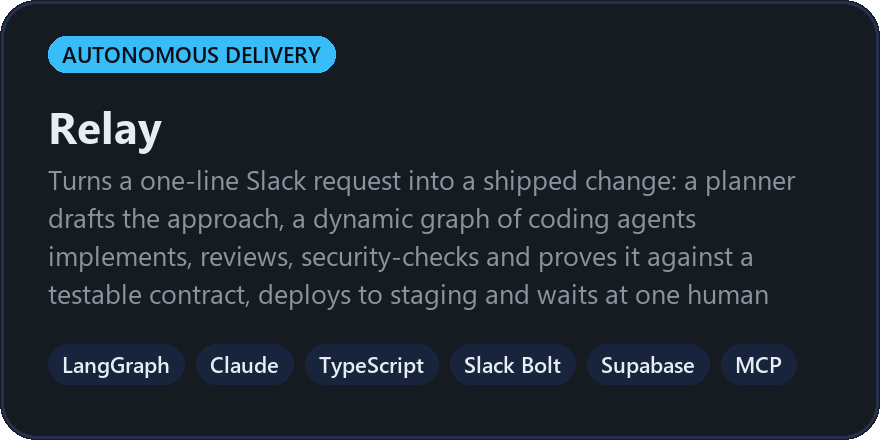
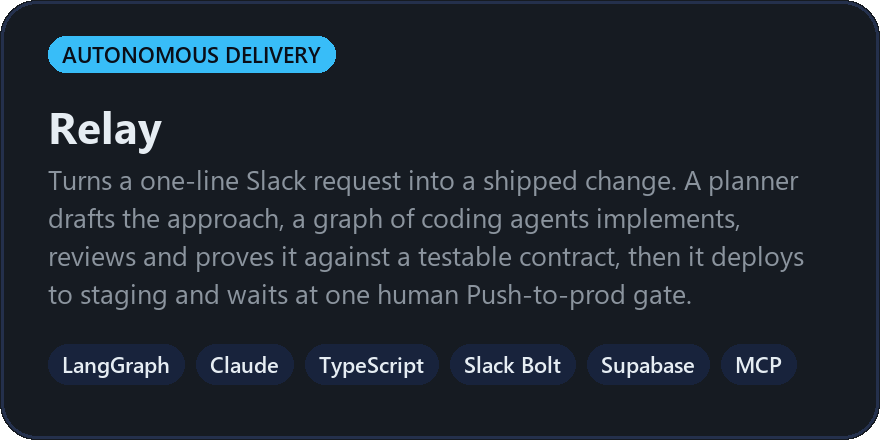
README: new layout without sidebar duplicates, new project cards

diff --git a/README.md b/README.md
@@ -1,15 +1,8 @@
-<img width="100%" alt="Haseeb Tariq, AI & Automation Engineer" src="assets-flat/hero.png">
-
-<p align="center">
-  <img alt="What I build" src="https://readme-typing-svg.demolab.com?font=Segoe+UI&weight=600&size=24&duration=2600&pause=700&color=58A6FF&center=true&vCenter=true&width=820&height=50&lines=Autonomous+agents+that+run+in+production%2C+not+demos;Voice+and+chat+agents+that+book+real+appointments;Browser+bots+that+survive+anti-detection;n8n+pipelines+that+debug+and+fix+themselves;Full-stack+AI+platforms+used+by+real+teams+every+day">
-</p>
+<img width="100%" alt="I build AI systems that ship. Autonomous agents, automation pipelines and full-stack AI products running in production for real teams." src="img/hero.png">
 
 <p align="center">
   <a href="mailto:contactbyhaseeb@gmail.com"><img alt="Email" src="https://img.shields.io/badge/Email-contactbyhaseeb%40gmail.com-D14836?style=for-the-badge&logo=gmail&logoColor=white"></a>
-  <a href="https://www.linkedin.com/in/haseeb-tariq099"><img alt="LinkedIn" src="https://img.shields.io/badge/LinkedIn-haseeb--tariq099-0A66C2?style=for-the-badge&logo=linkedin&logoColor=white"></a>
   <a href="https://wa.me/923229909327"><img alt="WhatsApp" src="https://img.shields.io/badge/WhatsApp-%2B92%20322%209909327-25D366?style=for-the-badge&logo=whatsapp&logoColor=white"></a>
-  <a href="https://www.instagram.com/haseeb_tariq0/"><img alt="Instagram" src="https://img.shields.io/badge/Instagram-haseeb__tariq0-E4405F?style=for-the-badge&logo=instagram&logoColor=white"></a>
-  <a href="https://github.com/haseeb9933?tab=repositories"><img alt="Repositories" src="https://img.shields.io/badge/All%20repos-haseeb9933-181717?style=for-the-badge&logo=github&logoColor=white"></a>
 </p>
 
 <br>
@@ -17,26 +10,26 @@
 <h2 align="center">What I build</h2>
 
 <p align="center">
-  <img width="32%" alt="AI agents and LLM apps" src="assets-flat/svc-agents.png">
-  <img width="32%" alt="RAG assistants" src="assets-flat/svc-rag.png">
-  <img width="32%" alt="Voice and chat agents" src="assets-flat/svc-voice.png">
-  <img width="32%" alt="Browser automation and scraping" src="assets-flat/svc-browser.png">
-  <img width="32%" alt="Workflow automation" src="assets-flat/svc-workflows.png">
-  <img width="32%" alt="Full-stack AI products" src="assets-flat/svc-fullstack.png">
+  <img width="32%" alt="AI agents and LLM apps" src="img/svc-agents.png">
+  <img width="32%" alt="RAG assistants" src="img/svc-rag.png">
+  <img width="32%" alt="Voice and chat agents" src="img/svc-voice.png">
+  <img width="32%" alt="Browser automation and scraping" src="img/svc-browser.png">
+  <img width="32%" alt="Workflow automation" src="img/svc-workflows.png">
+  <img width="32%" alt="Full-stack AI products" src="img/svc-fullstack.png">
 </p>
 
 <br>
 
 <h2 align="center">Featured work</h2>
-<p align="center">Click a card to open the code.</p>
+<p align="center">Click a card to open the code or demo.</p>
 
 <p align="center">
-  <img width="49%" alt="Momentum" src="assets-flat/momentum.png">
-  <a href="https://github.com/haseeb9933/haseeb-portfolio/tree/main/Axon-Bridge"><img width="49%" alt="Axon Bridge" src="assets-flat/axon-bridge.png"></a>
-  <a href="https://github.com/haseeb9933/haseeb-portfolio/tree/main/Binance"><img width="49%" alt="Rubber Band trading bot" src="assets-flat/rubber-band.png"></a>
-  <a href="https://github.com/haseeb9933/haseeb-portfolio/tree/main/schmoozzer-hub"><img width="49%" alt="Ops Hub" src="assets-flat/ops-hub.png"></a>
-  <a href="https://github.com/haseeb9933/haseeb-portfolio/tree/main/NOVA"><img width="49%" alt="NOVA n8n copilot" src="assets-flat/nova.png"></a>
-  <a href="https://github.com/haseeb9933/haseeb-portfolio/tree/main/bidsquare"><img width="49%" alt="Bidsquare outreach bot" src="assets-flat/bidsquare.png"></a>
+  <img width="49%" alt="Momentum" src="img/momentum.png">
+  <a href="https://github.com/haseeb-tariq0/relay-demo"><img width="49%" alt="Relay, autonomous software delivery" src="img/relay.png"></a>
+  <a href="https://github.com/haseeb9933/haseeb-portfolio/tree/main/Axon-Bridge"><img width="49%" alt="Axon Bridge" src="img/axon-bridge.png"></a>
+  <a href="https://github.com/haseeb9933/haseeb-portfolio/tree/main/schmoozzer-hub"><img width="49%" alt="Ops Hub" src="img/ops-hub.png"></a>
+  <a href="https://github.com/haseeb9933/haseeb-portfolio/tree/main/NOVA"><img width="49%" alt="NOVA n8n copilot" src="img/nova.png"></a>
+  <a href="https://github.com/haseeb9933/haseeb-portfolio/tree/main/Binance"><img width="49%" alt="Rubber Band trading bot" src="img/rubber-band.png"></a>
 </p>
 
 <br>
@@ -44,15 +37,21 @@
 <h2 align="center">More work</h2>
 
 <p align="center">
-  <img width="32%" alt="NEXA Ops Handbook" src="assets-flat/handbook.png">
-  <img width="32%" alt="Convo AI" src="assets-flat/convo-ai.png">
-  <img width="32%" alt="LinkedIn-to-Email automation" src="assets-flat/linkedin-email.png">
-  <img width="32%" alt="TikTok news video pipeline" src="assets-flat/tiktok-news.png">
-  <a href="https://github.com/haseeb9933/haseeb-portfolio/tree/main/linkedin--automation"><img width="32%" alt="LinkedIn Automation API" src="assets-flat/linkedin-api.png"></a>
-  <a href="https://github.com/haseeb9933/tiktok-instagram-scraper"><img width="32%" alt="TikTok and Instagram scraper" src="assets-flat/scraper.png"></a>
-  <a href="https://github.com/haseeb9933/Retail-Sales-Data-Dashboard"><img width="32%" alt="Retail Sales Dashboard" src="assets-flat/retail.png"></a>
-  <a href="https://github.com/haseeb9933/Full_Stack_AI__Haseeb"><img width="32%" alt="ML and forecasting notebooks" src="assets-flat/ml.png"></a>
-  <a href="https://github.com/haseeb9933/3x-aiautomation-portfolio"><img width="32%" alt="3X AI Automation site" src="assets-flat/3x.png"></a>
+  <img width="32%" alt="NEXA EOS" src="img/nexa-eos.png">
+  <img width="32%" alt="NEXA Ops Handbook" src="img/handbook.png">
+  <img width="32%" alt="Convo AI" src="img/convo-ai.png">
+  <a href="https://github.com/haseeb9933/haseeb-portfolio/tree/main/bidsquare"><img width="32%" alt="Bidsquare outreach bot" src="img/bidsquare.png"></a>
+  <img width="32%" alt="LinkedIn-to-Email automation" src="img/linkedin-email.png">
+  <img width="32%" alt="TikTok news video pipeline" src="img/tiktok-news.png">
+  <img width="32%" alt="Flow Studio" src="img/flow-studio.png">
+  <img width="32%" alt="Faceless YouTube pipeline" src="img/youtube-auto.png">
+  <img width="32%" alt="Vault password manager" src="img/vault.png">
+  <img width="32%" alt="Upwork job watcher" src="img/upwork-bot.png">
+  <a href="https://github.com/haseeb9933/haseeb-portfolio/tree/main/linkedin--automation"><img width="32%" alt="LinkedIn Automation API" src="img/linkedin-api.png"></a>
+  <a href="https://github.com/haseeb9933/tiktok-instagram-scraper"><img width="32%" alt="TikTok and Instagram scraper" src="img/scraper.png"></a>
+  <img width="32%" alt="openkvm" src="img/openkvm.png">
+  <img width="32%" alt="Job Copilot" src="img/job-copilot.png">
+  <a href="https://github.com/haseeb9933/3x-aiautomation-portfolio"><img width="32%" alt="3X AI Automation site" src="img/3x.png"></a>
 </p>
 
 <p align="center"><sub>Cards marked <i>Private</i> are employer or client builds. Everything in <a href="https://github.com/haseeb9933/haseeb-portfolio">haseeb-portfolio</a> ships with runnable code, an <code>.env.example</code> and full technical documentation.</sub></p>
@@ -74,7 +73,7 @@
   <img alt="LangChain" src="https://img.shields.io/badge/LangChain-1C3C3C?style=for-the-badge&logo=langchain&logoColor=white">
   <img alt="OpenAI" src="https://img.shields.io/badge/OpenAI-412991?style=for-the-badge&logo=openai&logoColor=white">
   <img alt="Anthropic Claude" src="https://img.shields.io/badge/Claude-D97757?style=for-the-badge&logo=anthropic&logoColor=white">
-  <img alt="Gemini" src="https://img.shields.io/badge/Gemini-8E75B2?style=for-the-badge&logo=googlegemini&logoColor=white">
+  <img alt="Gemini" src="https://img.shields.io/badge/Gemini-1F6FEB?style=for-the-badge&logo=googlegemini&logoColor=white">
   <img alt="ElevenLabs" src="https://img.shields.io/badge/ElevenLabs-000000?style=for-the-badge&logo=elevenlabs&logoColor=white">
   <img alt="n8n" src="https://img.shields.io/badge/n8n-EA4B71?style=for-the-badge&logo=n8n&logoColor=white">
   <img alt="Selenium" src="https://img.shields.io/badge/Selenium-43B02A?style=for-the-badge&logo=selenium&logoColor=white">
@@ -86,6 +85,7 @@
   <img alt="Render" src="https://img.shields.io/badge/Render-46E3B7?style=for-the-badge&logo=render&logoColor=black">
   <img alt="Tailwind CSS" src="https://img.shields.io/badge/Tailwind-06B6D4?style=for-the-badge&logo=tailwindcss&logoColor=white">
   <img alt="Chrome Extensions" src="https://img.shields.io/badge/Chrome%20Extensions-4285F4?style=for-the-badge&logo=googlechrome&logoColor=white">
+  <img alt="Rust" src="https://img.shields.io/badge/Rust-000000?style=for-the-badge&logo=rust&logoColor=white">
   <img alt="GitHub Actions" src="https://img.shields.io/badge/GitHub%20Actions-2088FF?style=for-the-badge&logo=githubactions&logoColor=white">
 </p>
 
@@ -94,25 +94,13 @@
 <h2 align="center">Experience</h2>
 
 <p align="center">
-  <img width="100%" alt="Timeline: CodAgentic and EnlightSystems internships in 2025, AI Engineer at Schmoozzer Sep 2025 to Mar 2026, AI Engineer at Digital Nexa since Mar 2026" src="assets-flat/experience.png">
+  <img width="100%" alt="Timeline: CodAgentic and EnlightSystems internships in 2025, AI Engineer at Schmoozzer Sep 2025 to Mar 2026, AI Engineer at Digital Nexa since Mar 2026" src="img/experience.png">
 </p>
-
-<p align="center"><sub>Also co-engineer at <b>3X AI Automation</b>, an AI automation agency, with Usama Younas.</sub></p>
 
 <br>
 
-<h2 align="center">Let's build something</h2>
-
 <p align="center">
-  Open to full-time roles, contracts and freelance builds in AI agents, automation and full-stack AI products.<br>
-  Send me the problem you are trying to solve and I will tell you straight whether I am the right fit.
+  Open to full-time roles, contracts and freelance builds. Send the problem you are trying to solve and I will tell you straight whether I am the right fit.
 </p>
 
-<p align="center">
-  <a href="mailto:contactbyhaseeb@gmail.com"><img alt="Email me" src="https://img.shields.io/badge/Email%20me-contactbyhaseeb%40gmail.com-1f6feb?style=for-the-badge&logo=gmail&logoColor=white"></a>
-  <a href="https://www.linkedin.com/in/haseeb-tariq099"><img alt="Connect on LinkedIn" src="https://img.shields.io/badge/Connect-LinkedIn-0A66C2?style=for-the-badge&logo=linkedin&logoColor=white"></a>
-  <a href="https://wa.me/923229909327"><img alt="WhatsApp" src="https://img.shields.io/badge/WhatsApp-25D366?style=for-the-badge&logo=whatsapp&logoColor=white"></a>
-  <a href="https://www.instagram.com/haseeb_tariq0/"><img alt="Instagram" src="https://img.shields.io/badge/Instagram-E4405F?style=for-the-badge&logo=instagram&logoColor=white"></a>
-</p>
-
-<img width="100%" alt="" src="assets-flat/footer.png">
+<img width="100%" alt="" src="img/footer.png">
